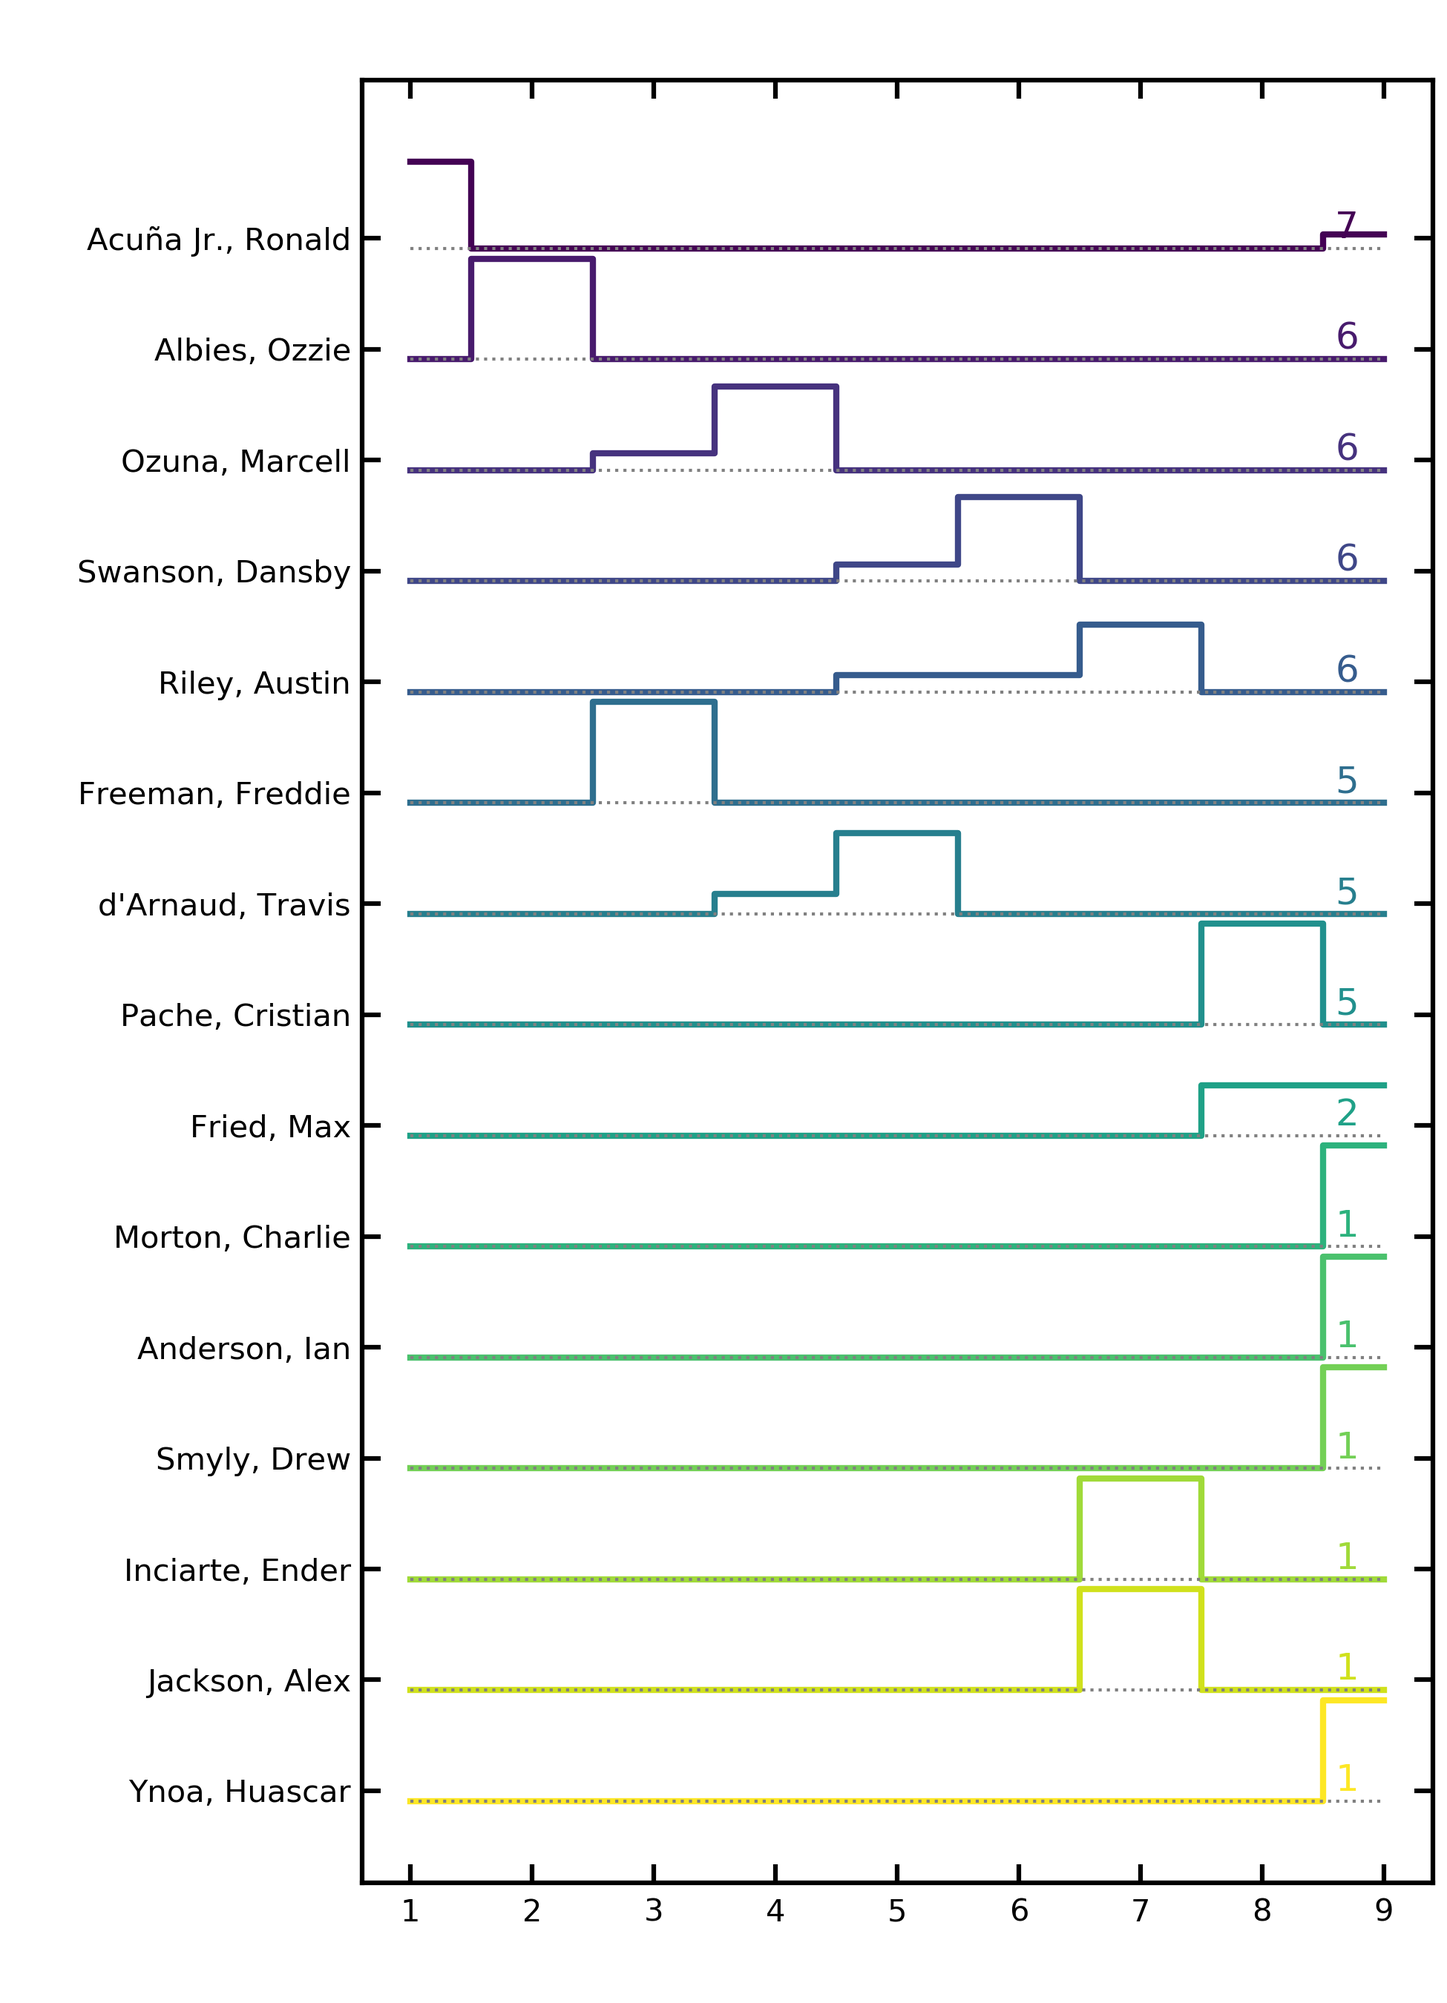
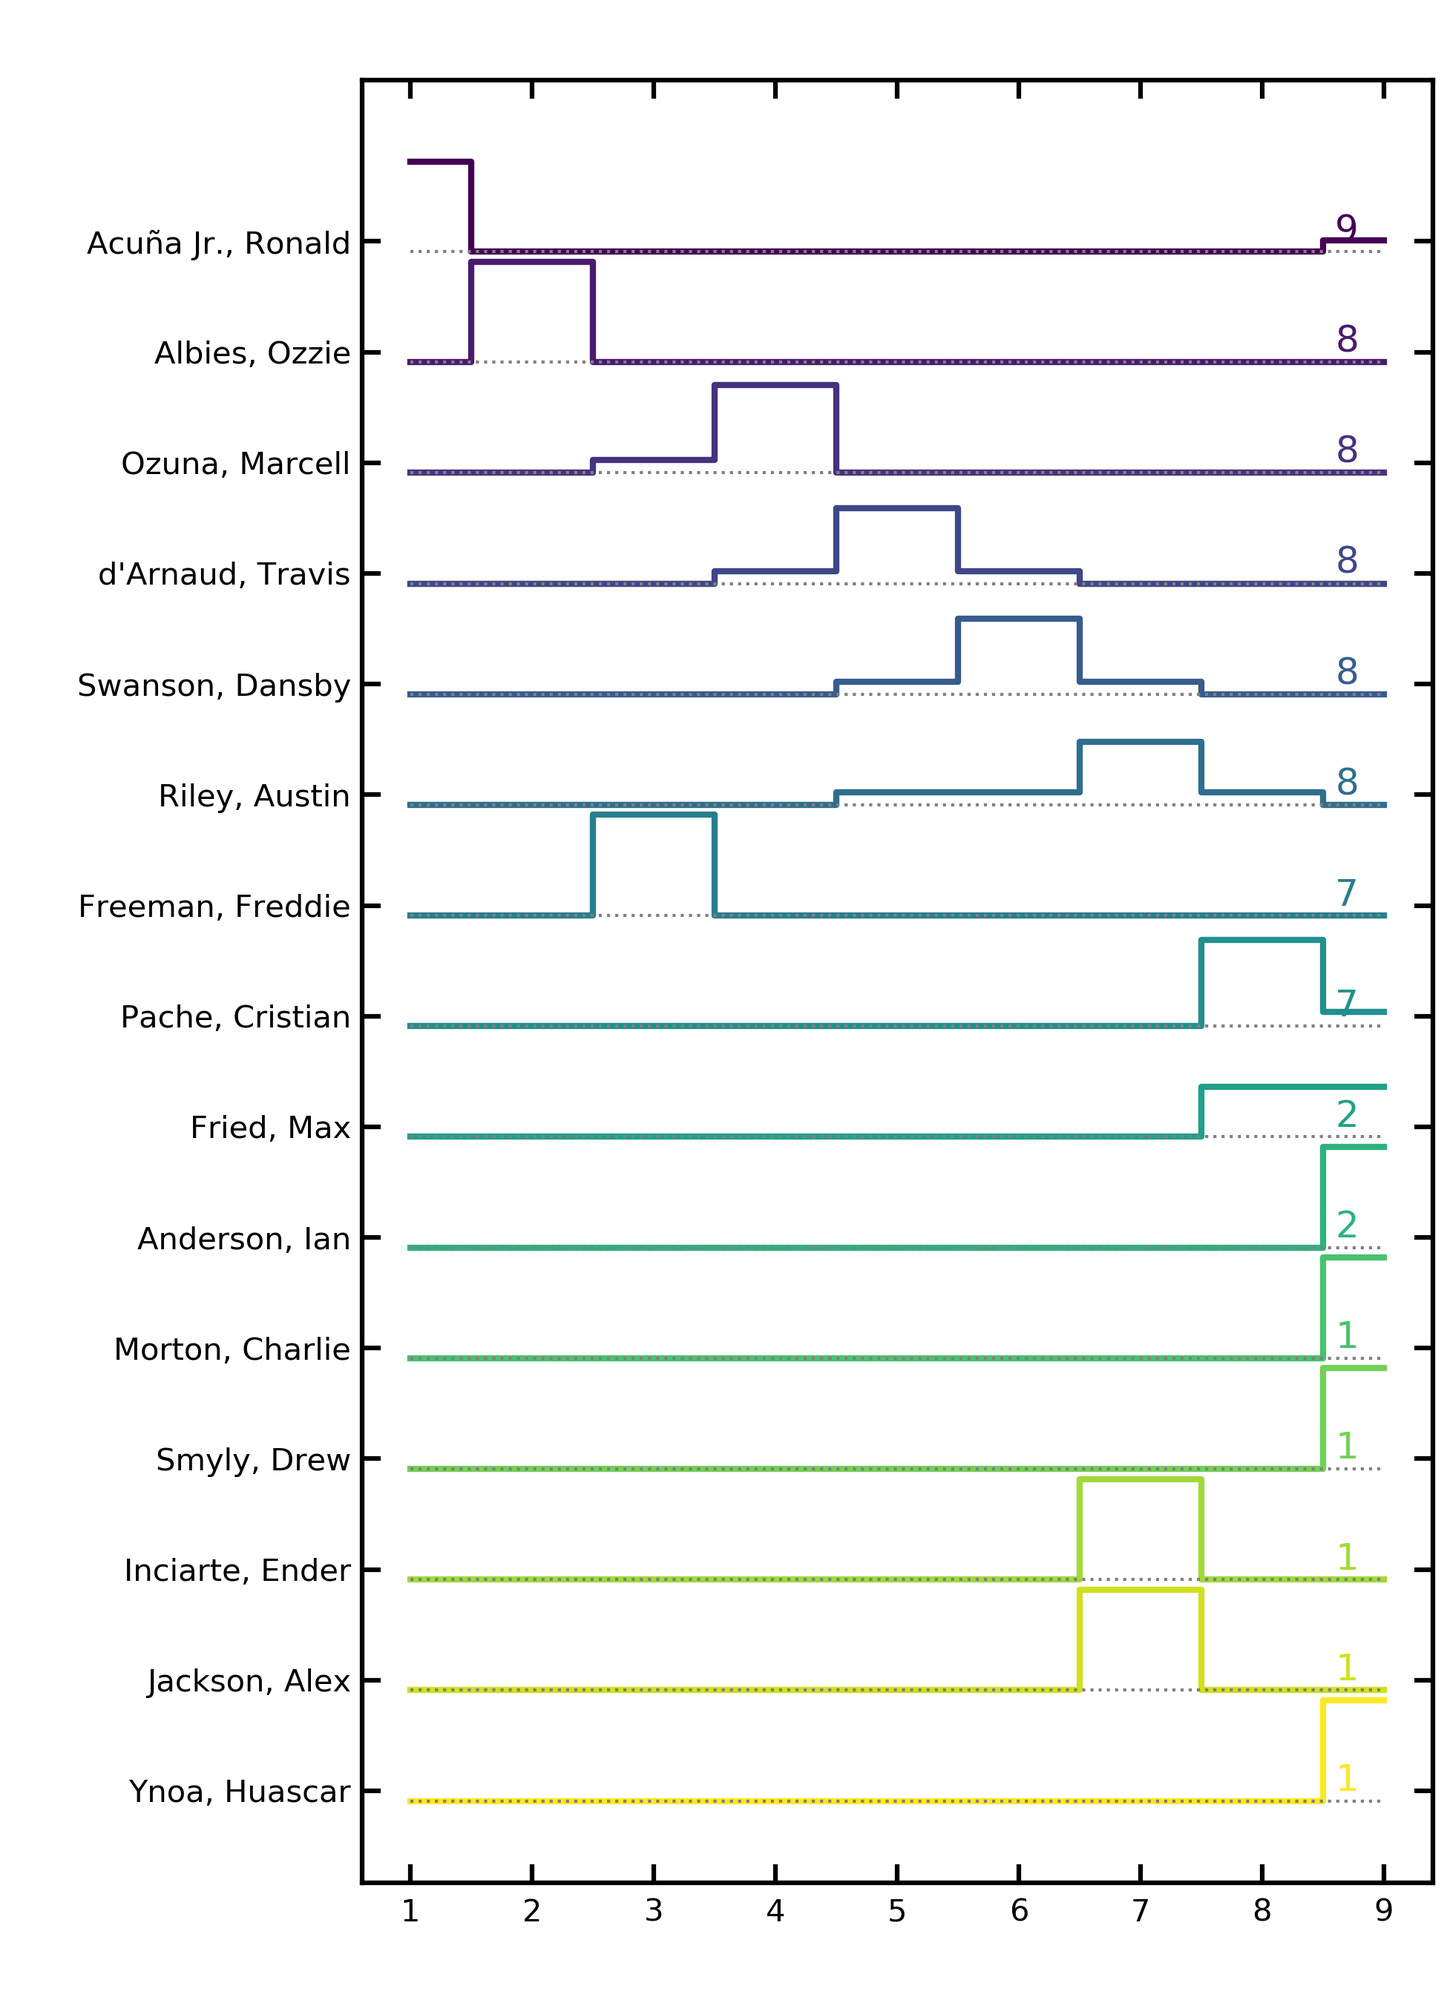
lineups through 4/10

diff --git a/Lineups/lineup2021.html b/Lineups/lineup2021.html
@@ -12,36 +12,36 @@
   <p>For each team, what is the "typical" 2021 lineup?</p>
 <table id="customers">
 <tr><th>Team</th><th>1st</th><th>2nd</th><th>3rd</th><th>4th</th><th>5th</th><th>6th</th><th>7th</th><th>8th</th><th>9th</th><th>Similarity</th><th>First Appeared</th></tr>
-<tr><td><a href="figures/2021LAAorder.png">LAA</a></td><td>Fletcher, David</td><td>Ohtani, Shohei</td><td>Trout, Mike</td><td>Rendon, Anthony</td><td>Walsh, Jared</td><td>Upton, Justin</td><td>Iglesias, José</td><td>Suzuki, Kurt</td><td>Fowler, Dexter</td><td>5.29</td><td>3</td></tr>
-<tr><td><a href="figures/2021HOUorder.png">HOU</a></td><td>Altuve, Jose</td><td>Brantley, Michael</td><td>Bregman, Alex</td><td>Tucker, Kyle</td><td>Correa, Carlos</td><td>Alvarez, Yordan</td><td>Gurriel, Yuli</td><td>Straw, Myles</td><td>Maldonado, Martín</td><td>4.43</td><td>1</td></tr>
-<tr><td><a href="figures/2021OAKorder.png">OAK</a></td><td>Canha, Mark</td><td>Olson, Matt</td><td>Lowrie, Jed</td><td>Moreland, Mitch</td><td>Chapman, Matt</td><td>Piscotty, Stephen</td><td>Tom, Ka'ai</td><td>Andrus, Elvis</td><td>Garcia, Aramis</td><td>2.81</td><td>4</td></tr>
-<tr><td><a href="figures/2021TORorder.png">TOR</a></td><td>Semien, Marcus</td><td>Biggio, Cavan</td><td>Bichette, Bo</td><td>Hernández, Teoscar</td><td>Guerrero Jr., Vladimir</td><td>Gurriel Jr., Lourdes</td><td>Grichuk, Randal</td><td>Panik, Joe</td><td>Jansen, Danny</td><td>6.0</td><td>6</td></tr>
-<tr><td><a href="figures/2021ATLorder.png">ATL</a></td><td>Acuña Jr., Ronald</td><td>Albies, Ozzie</td><td>Freeman, Freddie</td><td>Ozuna, Marcell</td><td>d'Arnaud, Travis</td><td>Swanson, Dansby</td><td>Riley, Austin</td><td>Pache, Cristian</td><td>Fried, Max</td><td>5.33</td><td>1</td></tr>
-<tr><td><a href="figures/2021MILorder.png">MIL</a></td><td>Wong, Kolten</td><td>Hiura, Keston</td><td>Yelich, Christian</td><td>García, Avisaíl</td><td>Bradley Jr., Jackie</td><td>Urías, Luis</td><td>Narváez, Omar</td><td>Arcia, Orlando</td><td>Anderson, Brett</td><td>3.86</td><td>4</td></tr>
-<tr><td><a href="figures/2021STLorder.png">STL</a></td><td>Edman, Tommy</td><td>Goldschmidt, Paul</td><td>Arenado, Nolan</td><td>DeJong, Paul</td><td>O'Neill, Tyler</td><td>Molina, Yadier</td><td>Carlson, Dylan</td><td>Williams, Justin</td><td>Flaherty, Jack</td><td>4.86</td><td>1</td></tr>
-<tr><td><a href="figures/2021CHCorder.png">CHC</a></td><td>Happ, Ian</td><td>Contreras, Willson</td><td>Rizzo, Anthony</td><td>Bryant, Kris</td><td>Pederson, Joc</td><td>Báez, Javier</td><td>Heyward, Jason</td><td>Bote, David</td><td>Hendricks, Kyle</td><td>3.71</td><td>1</td></tr>
-<tr><td><a href="figures/2021ARIorder.png">ARI</a></td><td>Rojas, Josh</td><td>Marte, Ketel</td><td>Walker, Christian</td><td>Peralta, David</td><td>Cabrera, Asdrúbal</td><td>Escobar, Eduardo</td><td>Kelly, Carson</td><td>Locastro, Tim</td><td>Bumgarner, Madison</td><td>3.86</td><td>6</td></tr>
-<tr><td><a href="figures/2021LADorder.png">LAD</a></td><td>Betts, Mookie</td><td>Seager, Corey</td><td>Turner, Justin</td><td>Bellinger, Cody</td><td>Muncy, Max</td><td>Taylor, Chris</td><td>Lux, Gavin</td><td>Barnes, Austin</td><td>Kershaw, Clayton</td><td>2.86</td><td>1</td></tr>
-<tr><td><a href="figures/2021SForder.png">SF</a></td><td>Slater, Austin</td><td>Yastrzemski, Mike</td><td>Solano, Donovan</td><td>Longoria, Evan</td><td>Ruf, Darin</td><td>Flores, Wilmer</td><td>Posey, Buster</td><td>Crawford, Brandon</td><td>Dubón, Mauricio</td><td>2.0</td><td>2</td></tr>
-<tr><td><a href="figures/2021CLEorder.png">CLE</a></td><td>Luplow, Jordan</td><td>Hernandez, Cesar</td><td>Ramírez, José</td><td>Rosario, Eddie</td><td>Reyes, Franmil</td><td>Naylor, Josh</td><td>Chang, Yu</td><td>Pérez, Roberto</td><td>Giménez, Andrés</td><td>5.0</td><td>1</td></tr>
-<tr><td><a href="figures/2021SEAorder.png">SEA</a></td><td>Haniger, Mitch</td><td>France, Ty</td><td>Seager, Kyle</td><td>White, Evan</td><td>Trammell, Taylor</td><td>Moore, Dylan</td><td>Fraley, Jake</td><td>Torrens, Luis</td><td>Crawford, J.P.</td><td>5.29</td><td>2</td></tr>
-<tr><td><a href="figures/2021MIAorder.png">MIA</a></td><td>Dickerson, Corey</td><td>Marte, Starling</td><td>Aguilar, Jesús</td><td>Duvall, Adam</td><td>Anderson, Brian</td><td>Chisholm Jr., Jazz</td><td>Alfaro, Jorge</td><td>Rojas, Miguel</td><td>Alcantara, Sandy</td><td>3.14</td><td>1</td></tr>
-<tr><td><a href="figures/2021NYMorder.png">NYM</a></td><td>Nimmo, Brandon</td><td>Lindor, Francisco</td><td>Conforto, Michael</td><td>Alonso, Pete</td><td>Smith, Dominic</td><td>Villar, Jonathan</td><td>McNeil, Jeff</td><td>McCann, James</td><td>Walker, Taijuan</td><td>3.75</td><td>4</td></tr>
-<tr><td><a href="figures/2021WSHorder.png">WSH</a></td><td>Robles, Victor</td><td>Turner, Trea</td><td>Soto, Juan</td><td>Zimmerman, Ryan</td><td>Castro, Starlin</td><td>Pérez, Hernán</td><td>Stevenson, Andrew</td><td>Lucroy, Jonathan</td><td>Scherzer, Max</td><td>4.0</td><td>1</td></tr>
-<tr><td><a href="figures/2021BALorder.png">BAL</a></td><td>Mullins, Cedric</td><td>Mancini, Trey</td><td>Santander, Anthony</td><td>Mountcastle, Ryan</td><td>Ruiz, Rio</td><td>Hays, Austin</td><td>Franco, Maikel</td><td>Galvis, Freddy</td><td>Severino, Pedro</td><td>4.29</td><td>1</td></tr>
-<tr><td><a href="figures/2021SDorder.png">SD</a></td><td>Pham, Tommy</td><td>Tatis Jr., Fernando</td><td>Machado, Manny</td><td>Hosmer, Eric</td><td>Myers, Wil</td><td>Cronenworth, Jake</td><td>Profar, Jurickson</td><td>Caratini, Victor</td><td>Darvish, Yu</td><td>2.57</td><td>1</td></tr>
-<tr><td><a href="figures/2021PHIorder.png">PHI</a></td><td>McCutchen, Andrew</td><td>Hoskins, Rhys</td><td>Harper, Bryce</td><td>Realmuto, J.T.</td><td>Bohm, Alec</td><td>Gregorius, Didi</td><td>Segura, Jean</td><td>Haseley, Adam</td><td>Nola, Aaron</td><td>4.67</td><td>1</td></tr>
-<tr><td><a href="figures/2021PITorder.png">PIT</a></td><td>Frazier, Adam</td><td>Newman, Kevin</td><td>Reynolds, Bryan</td><td>Moran, Colin</td><td>Evans, Phillip</td><td>Polanco, Gregory</td><td>Stallings, Jacob</td><td>Fowler, Dustin</td><td>Anderson, Tyler</td><td>3.71</td><td>7</td></tr>
-<tr><td><a href="figures/2021TEXorder.png">TEX</a></td><td>Kiner-Falefa, Isiah</td><td>Dahl, David</td><td>Gallo, Joey</td><td>Solak, Nick</td><td>Lowe, Nate</td><td>Trevino, Jose</td><td>White, Eli</td><td>Taveras, Leody</td><td>Culberson, Charlie</td><td>4.08</td><td>6</td></tr>
-<tr><td><a href="figures/2021TBorder.png">TB</a></td><td>Tsutsugo, Yoshi</td><td>Meadows, Austin</td><td>Arozarena, Randy</td><td>Lowe, Brandon</td><td>Díaz, Yandy</td><td>Wendle, Joey</td><td>Margot, Manuel</td><td>Mejía, Francisco</td><td>Yarbrough, Ryan</td><td>2.58</td><td>2</td></tr>
-<tr><td><a href="figures/2021BOSorder.png">BOS</a></td><td>Hernández, Enrique</td><td>Verdugo, Alex</td><td>Martinez, J.D.</td><td>Bogaerts, Xander</td><td>Devers, Rafael</td><td>Renfroe, Hunter</td><td>Gonzalez, Marwin</td><td>Vázquez, Christian</td><td>Dalbec, Bobby</td><td>3.43</td><td>1</td></tr>
-<tr><td><a href="figures/2021CINorder.png">CIN</a></td><td>Naquin, Tyler</td><td>Castellanos, Nick</td><td>Votto, Joey</td><td>Suárez, Eugenio</td><td>Moustakas, Mike</td><td>Senzel, Nick</td><td>India, Jonathan</td><td>Barnhart, Tucker</td><td>De León, José</td><td>4.75</td><td>4</td></tr>
-<tr><td><a href="figures/2021COLorder.png">COL</a></td><td>Tapia, Raimel</td><td>Hampson, Garrett</td><td>Story, Trevor</td><td>Blackmon, Charlie</td><td>Cron, C.J.</td><td>McMahon, Ryan</td><td>Hilliard, Sam</td><td>Nuñez, Dom</td><td>Márquez, Germán</td><td>3.14</td><td>5</td></tr>
+<tr><td><a href="figures/2021LAAorder.png">LAA</a></td><td>Fletcher, David</td><td>Ohtani, Shohei</td><td>Trout, Mike</td><td>Rendon, Anthony</td><td>Walsh, Jared</td><td>Upton, Justin</td><td>Iglesias, José</td><td>Suzuki, Kurt</td><td>Fowler, Dexter</td><td>5.44</td><td>3</td></tr>
+<tr><td><a href="figures/2021HOUorder.png">HOU</a></td><td>Altuve, Jose</td><td>Brantley, Michael</td><td>Bregman, Alex</td><td>Tucker, Kyle</td><td>Correa, Carlos</td><td>Alvarez, Yordan</td><td>Gurriel, Yuli</td><td>Straw, Myles</td><td>Maldonado, Martín</td><td>4.56</td><td>1</td></tr>
+<tr><td><a href="figures/2021OAKorder.png">OAK</a></td><td>Canha, Mark</td><td>Olson, Matt</td><td>Lowrie, Jed</td><td>Moreland, Mitch</td><td>Chapman, Matt</td><td>Piscotty, Stephen</td><td>Tom, Ka'ai</td><td>Andrus, Elvis</td><td>Garcia, Aramis</td><td>2.95</td><td>4</td></tr>
+<tr><td><a href="figures/2021TORorder.png">TOR</a></td><td>Semien, Marcus</td><td>Biggio, Cavan</td><td>Bichette, Bo</td><td>Hernández, Teoscar</td><td>Guerrero Jr., Vladimir</td><td>Gurriel Jr., Lourdes</td><td>Grichuk, Randal</td><td>Panik, Joe</td><td>Jansen, Danny</td><td>4.89</td><td>6</td></tr>
+<tr><td><a href="figures/2021ATLorder.png">ATL</a></td><td>Acuña Jr., Ronald</td><td>Albies, Ozzie</td><td>Freeman, Freddie</td><td>Ozuna, Marcell</td><td>d'Arnaud, Travis</td><td>Swanson, Dansby</td><td>Riley, Austin</td><td>Pache, Cristian</td><td>Anderson, Ian</td><td>5.62</td><td>3</td></tr>
+<tr><td><a href="figures/2021MILorder.png">MIL</a></td><td>Wong, Kolten</td><td>Hiura, Keston</td><td>Yelich, Christian</td><td>Shaw, Travis</td><td>Bradley Jr., Jackie</td><td>Cain, Lorenzo</td><td>Narváez, Omar</td><td>Urías, Luis</td><td>Burnes, Corbin</td><td>3.25</td><td>7</td></tr>
+<tr><td><a href="figures/2021STLorder.png">STL</a></td><td>Edman, Tommy</td><td>Goldschmidt, Paul</td><td>Arenado, Nolan</td><td>DeJong, Paul</td><td>O'Neill, Tyler</td><td>Molina, Yadier</td><td>Carlson, Dylan</td><td>Williams, Justin</td><td>Flaherty, Jack</td><td>4.69</td><td>1</td></tr>
+<tr><td><a href="figures/2021CHCorder.png">CHC</a></td><td>Happ, Ian</td><td>Contreras, Willson</td><td>Rizzo, Anthony</td><td>Bryant, Kris</td><td>Pederson, Joc</td><td>Báez, Javier</td><td>Heyward, Jason</td><td>Bote, David</td><td>Hendricks, Kyle</td><td>4.25</td><td>1</td></tr>
+<tr><td><a href="figures/2021ARIorder.png">ARI</a></td><td>Rojas, Josh</td><td>Marte, Ketel</td><td>Walker, Christian</td><td>Peralta, David</td><td>Cabrera, Asdrúbal</td><td>Escobar, Eduardo</td><td>Smith, Pavin</td><td>Vogt, Stephen</td><td>Bumgarner, Madison</td><td>3.67</td><td>1</td></tr>
+<tr><td><a href="figures/2021LADorder.png">LAD</a></td><td>Betts, Mookie</td><td>Seager, Corey</td><td>Turner, Justin</td><td>Bellinger, Cody</td><td>Muncy, Max</td><td>Taylor, Chris</td><td>Lux, Gavin</td><td>Barnes, Austin</td><td>Kershaw, Clayton</td><td>2.78</td><td>1</td></tr>
+<tr><td><a href="figures/2021SForder.png">SF</a></td><td>Slater, Austin</td><td>Yastrzemski, Mike</td><td>Solano, Donovan</td><td>Longoria, Evan</td><td>Ruf, Darin</td><td>Flores, Wilmer</td><td>Posey, Buster</td><td>Crawford, Brandon</td><td>Dubón, Mauricio</td><td>2.25</td><td>2</td></tr>
+<tr><td><a href="figures/2021CLEorder.png">CLE</a></td><td>Luplow, Jordan</td><td>Hernandez, Cesar</td><td>Ramírez, José</td><td>Rosario, Eddie</td><td>Reyes, Franmil</td><td>Naylor, Josh</td><td>Chang, Yu</td><td>Pérez, Roberto</td><td>Giménez, Andrés</td><td>5.57</td><td>1</td></tr>
+<tr><td><a href="figures/2021SEAorder.png">SEA</a></td><td>Haniger, Mitch</td><td>France, Ty</td><td>Seager, Kyle</td><td>White, Evan</td><td>Trammell, Taylor</td><td>Moore, Dylan</td><td>Fraley, Jake</td><td>Torrens, Luis</td><td>Crawford, J.P.</td><td>5.12</td><td>2</td></tr>
+<tr><td><a href="figures/2021MIAorder.png">MIA</a></td><td>Dickerson, Corey</td><td>Marte, Starling</td><td>Aguilar, Jesús</td><td>Cooper, Garrett</td><td>Anderson, Brian</td><td>Chisholm Jr., Jazz</td><td>Berti, Jon</td><td>Wallach, Chad</td><td>López, Pablo</td><td>3.38</td><td>6</td></tr>
+<tr><td><a href="figures/2021NYMorder.png">NYM</a></td><td>Nimmo, Brandon</td><td>Lindor, Francisco</td><td>Conforto, Michael</td><td>Alonso, Pete</td><td>Smith, Dominic</td><td>Villar, Jonathan</td><td>McNeil, Jeff</td><td>McCann, James</td><td>Walker, Taijuan</td><td>4.2</td><td>4</td></tr>
+<tr><td><a href="figures/2021WSHorder.png">WSH</a></td><td>Robles, Victor</td><td>Turner, Trea</td><td>Soto, Juan</td><td>Zimmerman, Ryan</td><td>Castro, Starlin</td><td>Pérez, Hernán</td><td>Stevenson, Andrew</td><td>Lucroy, Jonathan</td><td>Scherzer, Max</td><td>4.2</td><td>1</td></tr>
+<tr><td><a href="figures/2021BALorder.png">BAL</a></td><td>Mullins, Cedric</td><td>Mancini, Trey</td><td>Santander, Anthony</td><td>Mountcastle, Ryan</td><td>Ruiz, Rio</td><td>Franco, Maikel</td><td>Galvis, Freddy</td><td>Hays, Austin</td><td>Sisco, Chance</td><td>4.31</td><td>3</td></tr>
+<tr><td><a href="figures/2021SDorder.png">SD</a></td><td>Pham, Tommy</td><td>Tatis Jr., Fernando</td><td>Machado, Manny</td><td>Hosmer, Eric</td><td>Myers, Wil</td><td>Cronenworth, Jake</td><td>Profar, Jurickson</td><td>Caratini, Victor</td><td>Darvish, Yu</td><td>2.67</td><td>1</td></tr>
+<tr><td><a href="figures/2021PHIorder.png">PHI</a></td><td>McCutchen, Andrew</td><td>Hoskins, Rhys</td><td>Harper, Bryce</td><td>Realmuto, J.T.</td><td>Bohm, Alec</td><td>Gregorius, Didi</td><td>Segura, Jean</td><td>Haseley, Adam</td><td>Nola, Aaron</td><td>4.94</td><td>1</td></tr>
+<tr><td><a href="figures/2021PITorder.png">PIT</a></td><td>Frazier, Adam</td><td>Newman, Kevin</td><td>Reynolds, Bryan</td><td>Moran, Colin</td><td>Evans, Phillip</td><td>Polanco, Gregory</td><td>Stallings, Jacob</td><td>Fowler, Dustin</td><td>Anderson, Tyler</td><td>4.12</td><td>7</td></tr>
+<tr><td><a href="figures/2021TEXorder.png">TEX</a></td><td>Kiner-Falefa, Isiah</td><td>Dahl, David</td><td>Gallo, Joey</td><td>Lowe, Nate</td><td>Solak, Nick</td><td>Guzmán, Ronald</td><td>Holt, Brock</td><td>Heim, Jonah</td><td>Taveras, Leody</td><td>3.94</td><td>3</td></tr>
+<tr><td><a href="figures/2021TBorder.png">TB</a></td><td>Tsutsugo, Yoshi</td><td>Meadows, Austin</td><td>Arozarena, Randy</td><td>Lowe, Brandon</td><td>Díaz, Yandy</td><td>Wendle, Joey</td><td>Adames, Willy</td><td>Phillips, Brett</td><td>Zunino, Mike</td><td>3.69</td><td>7</td></tr>
+<tr><td><a href="figures/2021BOSorder.png">BOS</a></td><td>Hernández, Enrique</td><td>Verdugo, Alex</td><td>Martinez, J.D.</td><td>Bogaerts, Xander</td><td>Devers, Rafael</td><td>Renfroe, Hunter</td><td>Gonzalez, Marwin</td><td>Vázquez, Christian</td><td>Dalbec, Bobby</td><td>3.31</td><td>1</td></tr>
+<tr><td><a href="figures/2021CINorder.png">CIN</a></td><td>Naquin, Tyler</td><td>Castellanos, Nick</td><td>Votto, Joey</td><td>Suárez, Eugenio</td><td>Moustakas, Mike</td><td>Senzel, Nick</td><td>India, Jonathan</td><td>Barnhart, Tucker</td><td>Hoffman, Jeff</td><td>5.25</td><td>8</td></tr>
+<tr><td><a href="figures/2021COLorder.png">COL</a></td><td>Tapia, Raimel</td><td>Hampson, Garrett</td><td>Story, Trevor</td><td>Blackmon, Charlie</td><td>Cron, C.J.</td><td>McMahon, Ryan</td><td>Fuentes, Josh</td><td>Nuñez, Dom</td><td>Gray, Jon</td><td>3.11</td><td>3</td></tr>
 <tr><td><a href="figures/2021KCorder.png">KC</a></td><td>Merrifield, Whit</td><td>Benintendi, Andrew</td><td>Santana, Carlos</td><td>Perez, Salvador</td><td>Soler, Jorge</td><td>Dozier, Hunter</td><td>Isbel, Kyle</td><td>Taylor, Michael A.</td><td>Lopez, Nicky</td><td>6.25</td><td>1</td></tr>
-<tr><td><a href="figures/2021DETorder.png">DET</a></td><td>Grossman, Robbie</td><td>Candelario, Jeimer</td><td>Castro, Willi</td><td>Cabrera, Miguel</td><td>Schoop, Jonathan</td><td>Mazara, Nomar</td><td>Ramos, Wilson</td><td>Goodrum, Niko</td><td>Jones, JaCoby</td><td>2.67</td><td>2</td></tr>
-<tr><td><a href="figures/2021MINorder.png">MIN</a></td><td>Arraez, Luis</td><td>Polanco, Jorge</td><td>Buxton, Byron</td><td>Kepler, Max</td><td>Sanó, Miguel</td><td>Cave, Jake</td><td>Garver, Mitch</td><td>Simmons, Andrelton</td><td>Pineda, Michael</td><td>2.57</td><td>3</td></tr>
+<tr><td><a href="figures/2021DETorder.png">DET</a></td><td>Grossman, Robbie</td><td>Candelario, Jeimer</td><td>Castro, Willi</td><td>Cabrera, Miguel</td><td>Schoop, Jonathan</td><td>Mazara, Nomar</td><td>Ramos, Wilson</td><td>Goodrum, Niko</td><td>Jones, JaCoby</td><td>2.12</td><td>2</td></tr>
+<tr><td><a href="figures/2021MINorder.png">MIN</a></td><td>Arraez, Luis</td><td>Polanco, Jorge</td><td>Buxton, Byron</td><td>Kepler, Max</td><td>Sanó, Miguel</td><td>Cave, Jake</td><td>Garver, Mitch</td><td>Simmons, Andrelton</td><td>Pineda, Michael</td><td>2.31</td><td>3</td></tr>
 <tr><td><a href="figures/2021CWSorder.png">CWS</a></td><td>Anderson, Tim</td><td>Eaton, Adam</td><td>Abreu, José</td><td>Moncada, Yoán</td><td>Mercedes, Yermín</td><td>Grandal, Yasmani</td><td>Robert, Luis</td><td>Hamilton, Billy</td><td>Madrigal, Nick</td><td>2.94</td><td>4</td></tr>
-<tr><td><a href="figures/2021NYYorder.png">NYY</a></td><td>LeMahieu, DJ</td><td>Judge, Aaron</td><td>Hicks, Aaron</td><td>Stanton, Giancarlo</td><td>Torres, Gleyber</td><td>Bruce, Jay</td><td>Sánchez, Gary</td><td>Urshela, Gio</td><td>Frazier, Clint</td><td>3.75</td><td>2</td></tr>
+<tr><td><a href="figures/2021NYYorder.png">NYY</a></td><td>LeMahieu, DJ</td><td>Judge, Aaron</td><td>Hicks, Aaron</td><td>Stanton, Giancarlo</td><td>Torres, Gleyber</td><td>Bruce, Jay</td><td>Sánchez, Gary</td><td>Urshela, Gio</td><td>Frazier, Clint</td><td>3.81</td><td>2</td></tr>
 </table>
 </body>
 </html>
